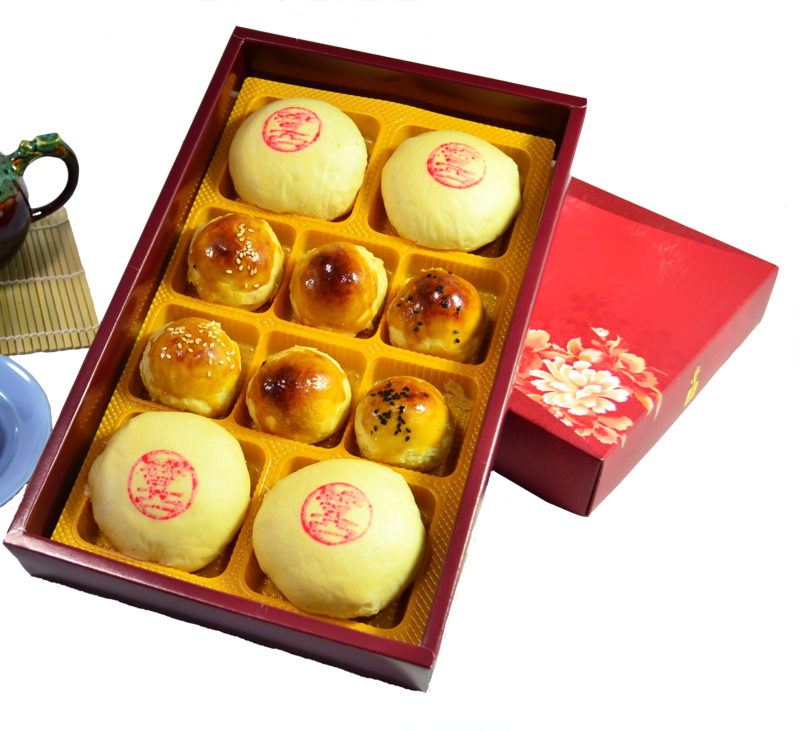
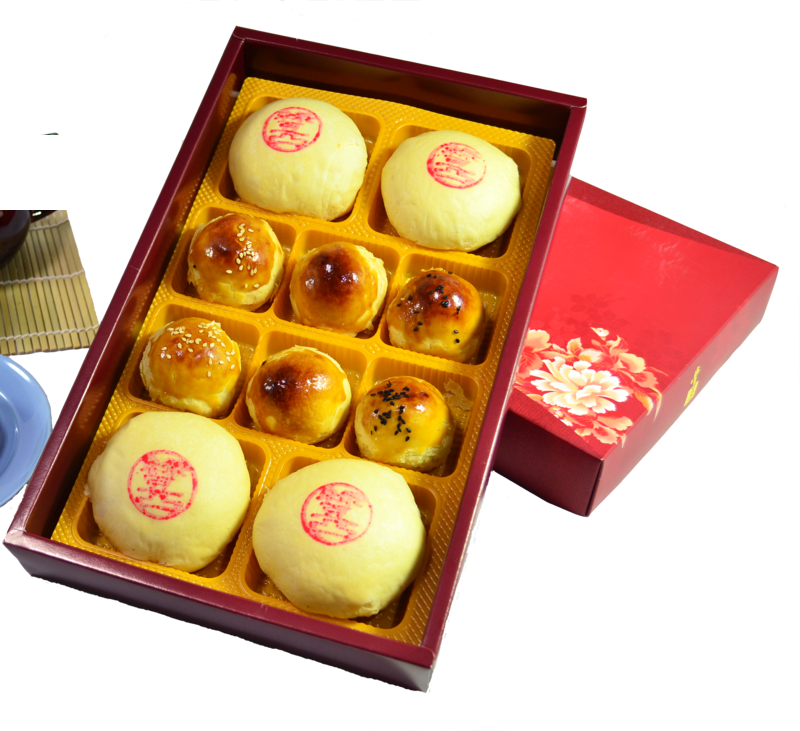
fix: 進一步清除禮盒照片旁邊的道具殘留（水果酥/綠豆椪/B款）

Changed region(s): [[0.0, 0.1806, 0.125, 0.301]]

diff --git a/data.js b/data.js
@@ -6,7 +6,7 @@
 
 // 每次更新 assets/img 裡的照片，把這個數字 +1，
 // 網頁就會強迫瀏覽器重新抓最新的圖，不會一直卡舊的快取版本。
-const ASSET_VERSION = 3;
+const ASSET_VERSION = 4;
 function imgV(path) {
   return path ? `${path}?v=${ASSET_VERSION}` : path;
 }
